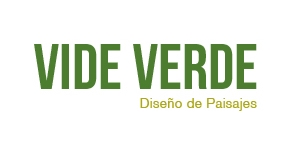
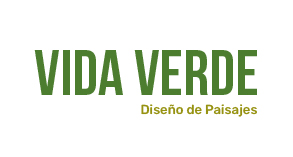
Animaciones

Changed region(s): [[0.0925, 0.3121, 0.8938, 0.7943]]

diff --git a/index.html b/index.html
@@ -47,30 +47,27 @@
                 <h1>Vida Verde</h1>
                 <h3>Diseño de paisajes</h3> 
             </div>    
-             <div class="body__slider">
-                
-             </div>
-        </div>    
-    <!-- Menú de imagenes -->    
-        <article class="card__content">
-            <div class="body__card">
-                <a href="./pages/diseños.html" class="opacity"> <img src="./images/boton_diseños_index.jpg" alt="" width="350" height="350">  </a>
-                <h4>Diseños</h4>
+        </div>               
+     </section>
+     <!-- Menú de imagenes -->  
+     <section class="card__content container">
+        <div class="body__card">
+            <a href="./pages/diseños.html" class="opacity"> <img src="./images/boton_diseños_index.jpg" alt="" width="350" height="350">  </a>
+            <h4>Diseños</h4>
+        </div>
+        <div class="body__card">
+            <a href="./pages/nosotros.html"> <img src="./images/boton_notros_index.jpg" alt="" width="350" height="350">  </a>
+            <h4>Nosotros</h4>
+        </div>
+        <div class="body__card">
+            <a href="./pages/trabajos.html" class="opacity"> <img src="./images/boton_trabajo_index.jpg" alt="" width="350" height="350">  </a>
+            <h4>Trabajos</h4>
+        </div>
+        <div class="body__card">
+            <a href="./pages/contact.html"> <img src="./images/boton_contacto_index.jpg" alt="" width="350" height="350">  </a>
+            <h4>Contacto</h4>
             </div>
-            <div class="body__card">
-                <a href="./pages/nosotros.html"> <img src="./images/boton_notros_index.jpg" alt="" width="350" height="350">  </a>
-                <h4>Nosotros</h4>
-            </div>
-            <div class="body__card">
-                <a href="./pages/trabajos.html" class="opacity"> <img src="./images/boton_trabajo_index.jpg" alt="" width="350" height="350">  </a>
-                <h4>Trabajos</h4>
-            </div>
-            <div class="body__card">
-                <a href="./pages/contact.html"> <img src="./images/boton_contacto_index.jpg" alt="" width="350" height="350">  </a>
-                <h4>Contacto</h4>
-                </div>
 
-        </article>        
      </section>
  </main>
 <!---Pie de pagina--->

diff --git a/style.css b/style.css
@@ -16,6 +16,11 @@ ul {
 p{
     line-height: 1.5;
 }
+.container {
+  max-width: 1200px;
+  /* top, bottom - left, right  */
+  margin: 0 auto;
+}
 .header {
     background-color: rgb(255, 255, 255);
     color: #9eb23b;
@@ -41,12 +46,16 @@ p{
 .content__navbar li a {
     color: #9eb23b;
     font-weight: bold;
+    transition: color 0.3;
+}
+.content__navbar li a:hover {
+  color: #58641d;
 }
 .content{
     display: grid;
     grid-template-rows: repeat(2,1fr);
     width: 100vw;
-    height: 1000px;
+    height: 80vh;
     position: relative;
     justify-content: center;
 }
@@ -60,18 +69,16 @@ p{
   background-size: cover;
   background-repeat: no-repeat;
   background-position: center center;
+  width: 100vw;
   height: 80vh;
   z-index: -1;
   }
-.body__slider img {
-    display: grid;
-    width: 100vw;      
-}
+
 .body__titulo {
     display: block;
     position: relative;
     z-index: 1;
-    left: 100px;
+    left: 250px;
     color: #e8fadf;
     font-family: 'Rubik', sans-serif;
 }
@@ -86,15 +93,12 @@ p{
     padding: 0 325px;
 }
 .card__content {
-    width: 100vw;
-    height:450px;    
     position: relative;
-    margin: 20px 50px;
     display: grid;
     grid-template-columns: repeat(4, 1fr);
     justify-content: space-between; 
     justify-items: center;  
-    align-content: center;
+ 
 }
 .card__content div {
     position: relative;
@@ -102,17 +106,23 @@ p{
 }
 /* Tarjetas menú*/
 .body__card {
-  width: 400px;
-  height: 400px;
+  width: 300px;
+  height: 300px;
   background-color: #fff;
   padding: 20px;
   display: grid;
+  transition: opacity 0.3;
+}
+.body__card:hover {
+  opacity: 0.3;
 }
 .body__card a {
   text-transform: uppercase;
 }   
 .body__card img {
-  width: 100%;
+  width: 200px;
+height: 200px;
+  
   border-radius: 8px;
   margin-bottom: 20px;
 }  
